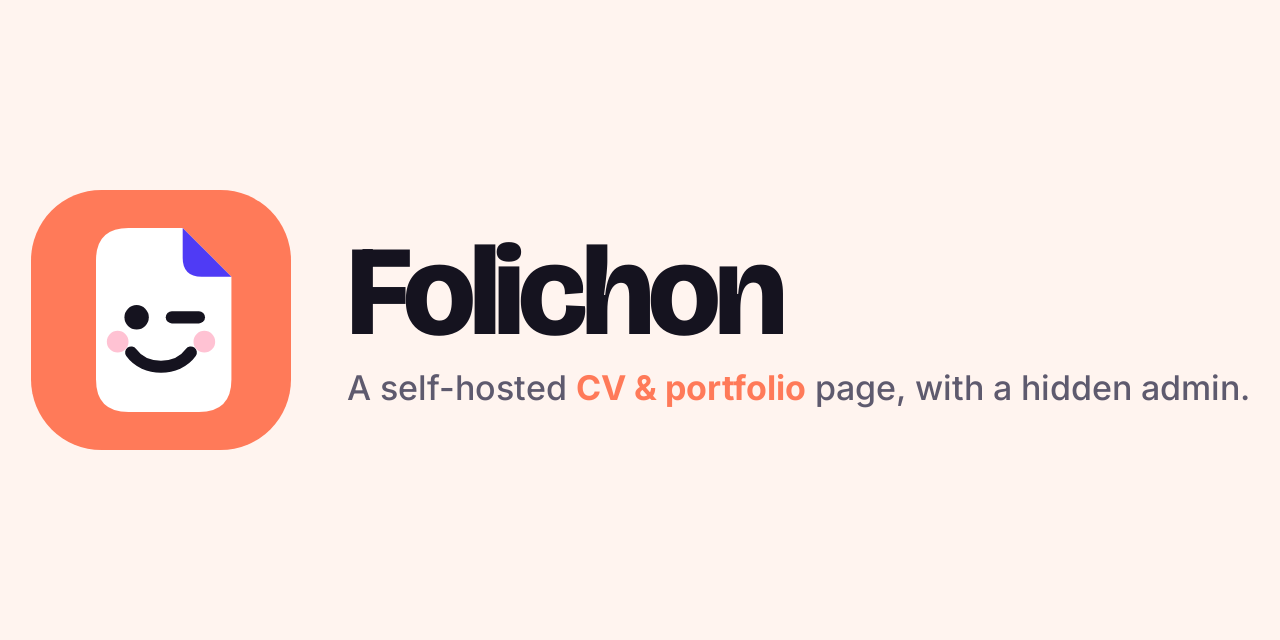
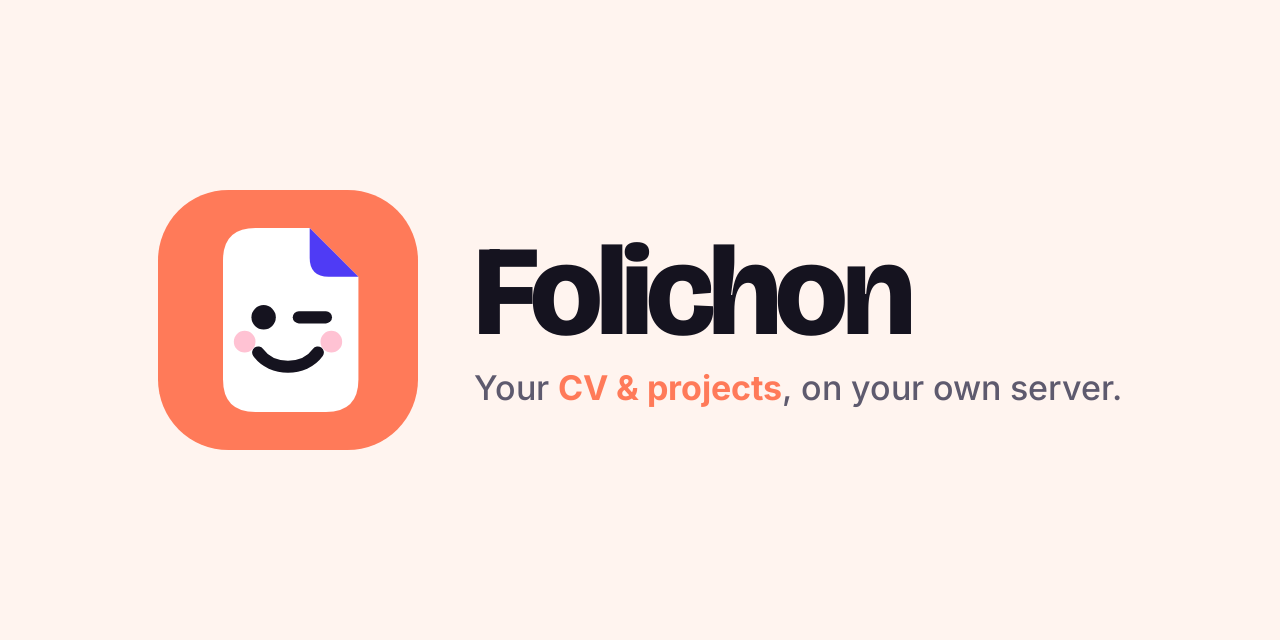
README in the Rackowl / Papote style, English mockups, translated public page
- README (EN and FR): centred logo, tagline, badges, hero mockup, "Why",
  feature table and a screenshot gallery; drop "with a hidden admin"
- New mockups from an English demo page: hero, light and dark page,
  editor, mobile; new social preview
- Public page: fixed texts (buttons, share menu, labels) follow the site
  language set in the admin, so an English site is fully in English

Changed region(s): [[0.0, 0.2812, 0.9688, 0.7188]]

diff --git a/src/helpers.js b/src/helpers.js
@@ -65,6 +65,83 @@ export function shareLinks(url, title, description) {
   };
 }
 
+// Textes fixes de la page publique, selon la langue du site (réglée dans l'admin).
+// Les variables s'écrivent {name} et se remplacent avec fill().
+const SITE_TEXT = {
+  fr: {
+    home: 'Accueil',
+    projects: 'Projets',
+    timeline: 'Parcours',
+    skills: 'Compétences',
+    contact: 'Contact',
+    seeProjects: 'Voir mes projets',
+    downloadCv: 'Télécharger mon CV',
+    findMe: 'Me retrouver',
+    languages: 'Langues',
+    emailButton: 'E-mail ↗',
+    viewCode: 'Voir le code ↗',
+    projectSite: 'Site du projet ↗',
+    projectN: 'Projet {n}',
+    photoOf: 'Photo de {name}',
+    screenshot: '{name} : capture d’écran',
+    screenshots: '{name} : captures d’écran',
+    screen: '{name} : écran {n}',
+    sectionsMenu: 'Menu des sections',
+    pageOutline: 'Plan de la page',
+    intro: 'Présentation',
+    socials: 'Réseaux',
+    share: 'Partager',
+    sharePage: 'Partager la page',
+    close: 'Fermer',
+    copyLink: 'Copier le lien',
+    linkCopied: 'Lien copié ✓',
+    copyPrompt: 'Copie ce lien :',
+    changeTheme: 'Changer de thème',
+    toDark: 'Passer en mode sombre',
+    toLight: 'Passer en mode clair'
+  },
+  en: {
+    home: 'Home',
+    projects: 'Projects',
+    timeline: 'Experience',
+    skills: 'Skills',
+    contact: 'Contact',
+    seeProjects: 'See my projects',
+    downloadCv: 'Download my CV',
+    findMe: 'Find me on',
+    languages: 'Languages',
+    emailButton: 'E-mail ↗',
+    viewCode: 'View code ↗',
+    projectSite: 'Project site ↗',
+    projectN: 'Project {n}',
+    photoOf: 'Photo of {name}',
+    screenshot: '{name}: screenshot',
+    screenshots: '{name}: screenshots',
+    screen: '{name}: screen {n}',
+    sectionsMenu: 'Sections',
+    pageOutline: 'Page outline',
+    intro: 'Introduction',
+    socials: 'Social links',
+    share: 'Share',
+    sharePage: 'Share this page',
+    close: 'Close',
+    copyLink: 'Copy link',
+    linkCopied: 'Link copied ✓',
+    copyPrompt: 'Copy this link:',
+    changeTheme: 'Change theme',
+    toDark: 'Switch to dark mode',
+    toLight: 'Switch to light mode'
+  }
+};
+
+export function siteText(lang) {
+  return text(lang).toLowerCase().startsWith('en') ? SITE_TEXT.en : SITE_TEXT.fr;
+}
+
+export function fill(template, vars) {
+  return text(template).replace(/\{(\w+)\}/g, (all, name) => (name in vars ? text(vars[name]) : all));
+}
+
 // « Mon Projet ! » → « mon-projet », pour les ancres de la page.
 export function slug(value) {
   return text(value)

diff --git a/public/js/site.js b/public/js/site.js
@@ -122,7 +122,8 @@ const themeToggle = document.querySelector('.theme-toggle');
 if (themeToggle) {
   const root = document.documentElement;
   const label = () => {
-    const text = root.dataset.theme === 'dark' ? 'Passer en mode clair' : 'Passer en mode sombre';
+    // Libellés fournis par la page, dans la langue du site.
+    const text = root.dataset.theme === 'dark' ? themeToggle.dataset.toLight : themeToggle.dataset.toDark;
     themeToggle.setAttribute('aria-label', text);
     themeToggle.title = text;
   };
@@ -166,13 +167,15 @@ if (shareBtn && sheet) {
       return ok;
     }
   };
-  const copyLabel = sheet.querySelector('.copy-label');
-  sheet.querySelector('[data-share="copy"]').addEventListener('click', async () => {
-    if (!(await copy(url))) return prompt('Copie ce lien :', url);
-    copyLabel.textContent = 'Lien copié ✓';
+  const copyButton = sheet.querySelector('[data-share="copy"]');
+  const copyLabel = copyButton.querySelector('.copy-label');
+  const copyText = copyLabel.textContent;
+  copyButton.addEventListener('click', async () => {
+    if (!(await copy(url))) return prompt(copyButton.dataset.prompt, url);
+    copyLabel.textContent = copyButton.dataset.copied;
     setTimeout(() => {
       sheet.close();
-      copyLabel.textContent = 'Copier le lien';
+      copyLabel.textContent = copyText;
     }, 900);
   });
   sheet.querySelector('.share-close').addEventListener('click', () => sheet.close());

diff --git a/test/server.test.js b/test/server.test.js
@@ -277,6 +277,22 @@ test("l'admin connaît sa version (vérification GitHub désactivée pendant les
   assert.equal((await fetch(`${BASE + ADMIN}/api/version`)).status, 401);
 });
 
+test('page publique en anglais quand la langue du site est « en »', async () => {
+  const content = await (await fetch(`${BASE + ADMIN}/api/content`, { headers: { cookie } })).json();
+  content.site.lang = 'en';
+  const put = await fetch(`${BASE + ADMIN}/api/content`, {
+    method: 'PUT',
+    headers: { cookie, 'Content-Type': 'application/json', 'X-Requested-With': 'folichon-admin' },
+    body: JSON.stringify(content)
+  });
+  assert.equal(put.status, 200);
+  const html = await (await fetch(BASE)).text();
+  assert.match(html, /<html lang="en">/);
+  assert.match(html, /View code ↗/);
+  assert.match(html, /data-copied="Link copied ✓"/);
+  assert.doesNotMatch(html, /Voir le code|Copier le lien|Partager la page/);
+});
+
 test('la déconnexion révoque la session côté serveur', async () => {
   const before = await fetch(`${BASE + ADMIN}/api/content`, { headers: { cookie } });
   assert.equal(before.status, 200);

diff --git a/README.fr.md b/README.fr.md
@@ -1,20 +1,64 @@
-<p align="center"><img src="docs/banner.png" alt="Folichon — une page CV & portfolio auto-hébergée, avec une administration cachée" width="760"></p>
-
 <p align="center">
-<a href="#installation-docker-compose">Installer</a> ·
-<a href="#utiliser-ladministration">Administration</a> ·
-<a href="#sécurité">Sécurité</a> ·
-<a href="README.md">English</a>
+  <img src="docs/logo.svg" alt="Logo Folichon" width="104" height="104">
 </p>
 
-**Folichon** est une page CV / portfolio auto-hébergée, avec une **administration cachée** pour modifier tout le contenu sans toucher au code : présentation, projets, parcours, compétences, contact.
+<h1 align="center">Folichon</h1>
 
-<p align="center"><img src="docs/screenshot.webp" alt="Page d'exemple de Folichon" width="760"></p>
+<p align="center">
+  <b>Ton CV et tes projets, sur ton propre serveur.</b><br>
+  Une page portfolio joyeuse que tu modifies depuis ton navigateur : un seul conteneur Docker, sans base de données.
+</p>
 
-- Page publique rendue côté serveur, adaptée au mobile, avec **mode sombre** et **menu de partage**.
-- Administration à une **adresse secrète**, protégée par mot de passe **et double authentification** (Google Authenticator, Aegis, 2FAS…).
-- Tout le contenu vit dans un fichier JSON ; les images et le CV envoyés depuis l'admin sont stockés à côté.
-- **Un seul conteneur Docker**, sans base de données ni service externe (polices comprises).
+<p align="center">
+  <a href="https://github.com/MrDDream/Folichon/releases/latest"><img src="https://img.shields.io/github/v/release/MrDDream/Folichon?color=FF7A59&label=version" alt="Dernière version"></a>
+  <a href="https://github.com/MrDDream/Folichon/pkgs/container/folichon"><img src="https://img.shields.io/badge/docker-ghcr.io%2Fmrddream%2Ffolichon-FF7A59?logo=docker&logoColor=white" alt="Image Docker"></a>
+  <a href="https://github.com/MrDDream/Folichon/actions/workflows/tests.yml"><img src="https://github.com/MrDDream/Folichon/actions/workflows/tests.yml/badge.svg" alt="Tests"></a>
+  <a href="LICENSE"><img src="https://img.shields.io/badge/licence-MIT-FF7A59" alt="Licence MIT"></a>
+</p>
+
+<p align="center">
+  <a href="#installation-docker-compose">Installer</a> ·
+  <a href="#-ce-que-ça-fait">Fonctions</a> ·
+  <a href="#-captures">Captures</a> ·
+  <a href="README.md">English</a>
+</p>
+
+<p align="center">
+  <img src="docs/hero.webp" alt="La page publique, l'éditeur et la vue mobile" width="820">
+</p>
+
+---
+
+## 😄 Pourquoi Folichon ?
+
+Un CV en PDF, c'est bien, mais ça ne montre pas ce que tu construis. Les créateurs de sites le montrent joliment, sur leurs serveurs, avec leur logo et leurs traceurs.
+
+Folichon, c'est une seule page qui raconte ton histoire (qui tu es, ce que tu construis, ton parcours, tes compétences), hébergée sur **ton** serveur. Tu la modifies depuis un éditeur intégré, dans ton navigateur : pas de code, pas de recompilation, pas de base de données.
+
+## ✨ Ce que ça fait
+
+|                                  |                                                                                                                                                                                                             |
+| -------------------------------- | ----------------------------------------------------------------------------------------------------------------------------------------------------------------------------------------------------------- |
+| 🧑💻 **Une page qui te ressemble** | Présentation avec photo, chiffres clés, grands projets avec leurs couleurs et leurs captures, mini projets, parcours, compétences et contact.                                                               |
+| ✏ **Éditeur intégré**           | Tous les textes, liens, couleurs et images se modifient dans le navigateur, avec des listes réordonnables, l'annulation d'une suppression et une protection contre l'écrasement d'une version plus récente. |
+| 🔐 **Sécurisé**                  | Administration à une adresse secrète, mot de passe **et** double authentification, essais limités, sessions révocables, en-têtes de sécurité stricts.                                                       |
+| 🌗 **Clair et sombre**           | Suit le système, avec un bouton sur la page et dans l'éditeur.                                                                                                                                              |
+| 📱 **Pensé mobile**              | Menu collant, mise en page compacte, menu de partage du téléphone.                                                                                                                                          |
+| 🌍 **Français et anglais**       | La page et l'éditeur parlent les deux.                                                                                                                                                                      |
+| 🪶 **Léger**                     | Un seul conteneur, pas de base de données, aucune ressource externe : polices servies par le site, images en WebP.                                                                                          |
+
+## 📸 Captures
+
+<table>
+<tr>
+<td align="center"><b>Page publique</b><br><img src="docs/screens/page-light.webp" alt="Page publique en mode clair" width="400"></td>
+<td align="center"><b>Mode sombre</b><br><img src="docs/screens/page-dark.webp" alt="Page publique en mode sombre" width="400"></td>
+</tr>
+<tr>
+<td align="center"><b>Éditeur</b><br><img src="docs/screens/admin.webp" alt="L'éditeur intégré" width="400"></td>
+<td align="center"><b>Sur mobile</b><br><img src="docs/screens/mobile.webp" alt="La page sur un téléphone" width="400"></td>
+</tr>
+</table>
 
 ## Installation (Docker Compose)
 

diff --git a/README.md b/README.md
@@ -1,22 +1,64 @@
-<p align="center"><img src="docs/banner.png" alt="Folichon — a self-hosted CV & portfolio page, with a hidden admin" width="760"></p>
-
 <p align="center">
-<a href="#install-docker-compose">Install</a> ·
-<a href="#using-the-admin">Admin</a> ·
-<a href="#security">Security</a> ·
-<a href="README.fr.md">Français</a>
+  <img src="docs/logo.svg" alt="Folichon logo" width="104" height="104">
 </p>
 
-**Folichon** is a self-hosted CV / portfolio page with a **hidden admin** to edit everything without touching the code: introduction, projects, experience, skills, contact.
+<h1 align="center">Folichon</h1>
 
-<p align="center"><img src="docs/screenshot.webp" alt="Folichon sample page" width="760"></p>
+<p align="center">
+  <b>Your CV and projects, on your own server.</b><br>
+  A cheerful portfolio page you edit from your browser: one Docker container, no database.
+</p>
 
-- Server-rendered public page, mobile friendly, with **dark mode** and a **share menu**.
-- Admin at a **secret address**, protected by a password **and two-factor authentication** (Google Authenticator, Aegis, 2FAS…).
-- All content lives in one JSON file; images and the CV uploaded from the admin are stored next to it.
-- **A single Docker container**, no database, no external service (fonts included).
+<p align="center">
+  <a href="https://github.com/MrDDream/Folichon/releases/latest"><img src="https://img.shields.io/github/v/release/MrDDream/Folichon?color=FF7A59&label=release" alt="Latest release"></a>
+  <a href="https://github.com/MrDDream/Folichon/pkgs/container/folichon"><img src="https://img.shields.io/badge/docker-ghcr.io%2Fmrddream%2Ffolichon-FF7A59?logo=docker&logoColor=white" alt="Docker image"></a>
+  <a href="https://github.com/MrDDream/Folichon/actions/workflows/tests.yml"><img src="https://github.com/MrDDream/Folichon/actions/workflows/tests.yml/badge.svg" alt="Tests"></a>
+  <a href="LICENSE"><img src="https://img.shields.io/badge/license-MIT-FF7A59" alt="MIT license"></a>
+</p>
 
-The sample content and the admin are in French; every text on the page can be changed from the admin.
+<p align="center">
+  <a href="#install-docker-compose">Install</a> ·
+  <a href="#-what-it-does">Features</a> ·
+  <a href="#-screenshots">Screenshots</a> ·
+  <a href="README.fr.md">Version française</a>
+</p>
+
+<p align="center">
+  <img src="docs/hero.webp" alt="The public page, the editor and the mobile view" width="820">
+</p>
+
+---
+
+## 😄 Why Folichon?
+
+A CV in a PDF is fine, but it doesn't show what you build. Website builders show it nicely, on someone else's servers, with their branding and their trackers.
+
+Folichon is a single page that tells your story (who you are, what you build, where you've worked, what you know), hosted on **your** server. You change it from a built-in editor in your browser: no code, no rebuild, no database.
+
+## ✨ What it does
+
+|                                   |                                                                                                                                                          |
+| --------------------------------- | -------------------------------------------------------------------------------------------------------------------------------------------------------- |
+| 🧑💻 **A page that looks like you** | Introduction with photo, key figures, big project cards with their own colours and screenshots, small projects, experience timeline, skills and contact. |
+| ✏ **Built-in editor**            | Every text, link, colour and image is editable from the browser, with lists you reorder, undo on delete and a guard against overwriting a newer version. |
+| 🔐 **Secured**                    | Admin at a secret address, password **and** two-factor authentication, limited attempts, revocable sessions, strict security headers.                    |
+| 🌗 **Light and dark**             | Follows the system, with a switch on the page and in the editor.                                                                                         |
+| 📱 **Mobile first**               | Sticky menu, compact layout, the phone's own share sheet.                                                                                                |
+| 🌍 **French and English**         | The page and the editor speak both.                                                                                                                      |
+| 🪶 **Light**                      | One container, no database, no external resource: fonts are served by the site, images are WebP.                                                         |
+
+## 📸 Screenshots
+
+<table>
+<tr>
+<td align="center"><b>Public page</b><br><img src="docs/screens/page-light.webp" alt="Public page in light mode" width="400"></td>
+<td align="center"><b>Dark mode</b><br><img src="docs/screens/page-dark.webp" alt="Public page in dark mode" width="400"></td>
+</tr>
+<tr>
+<td align="center"><b>Editor</b><br><img src="docs/screens/admin.webp" alt="The built-in editor" width="400"></td>
+<td align="center"><b>On mobile</b><br><img src="docs/screens/mobile.webp" alt="The page on a phone" width="400"></td>
+</tr>
+</table>
 
 ## Install (Docker Compose)
 

diff --git a/SECURITY.md b/SECURITY.md
@@ -12,6 +12,6 @@ Only the latest release (and the `latest` Docker image) receives security fixes.
 
 ## Scope
 
-In scope: the public page, the hidden admin (sign-in, two-factor authentication, sessions, saving, uploads) and the Docker image.
+In scope: the public page, the admin (sign-in, two-factor authentication, sessions, saving, uploads) and the Docker image.
 
 Out of scope: weak passwords chosen by the person running the site, a server exposed without HTTPS, and a reverse proxy configured to trust every `X-Forwarded-For` header.
